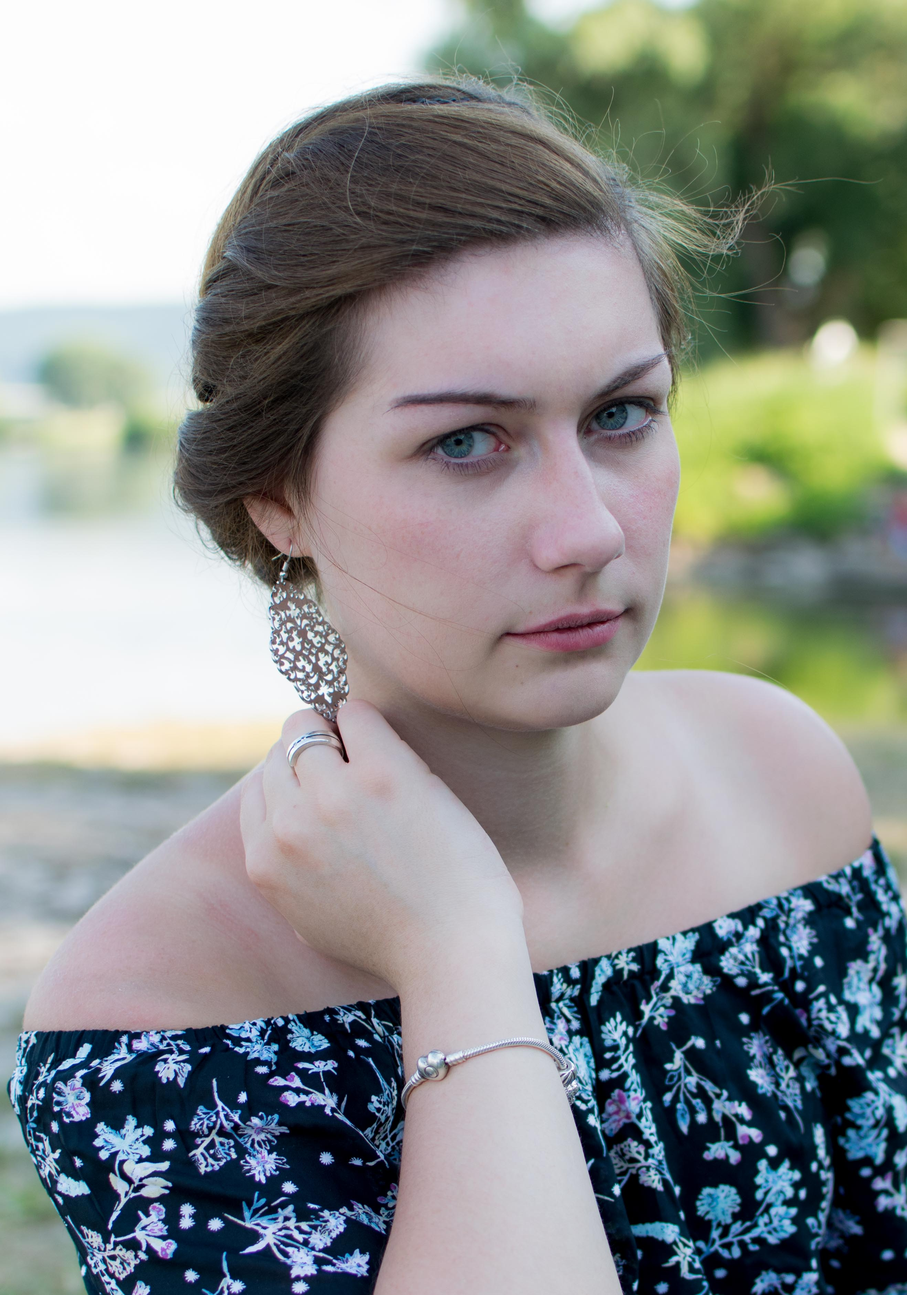
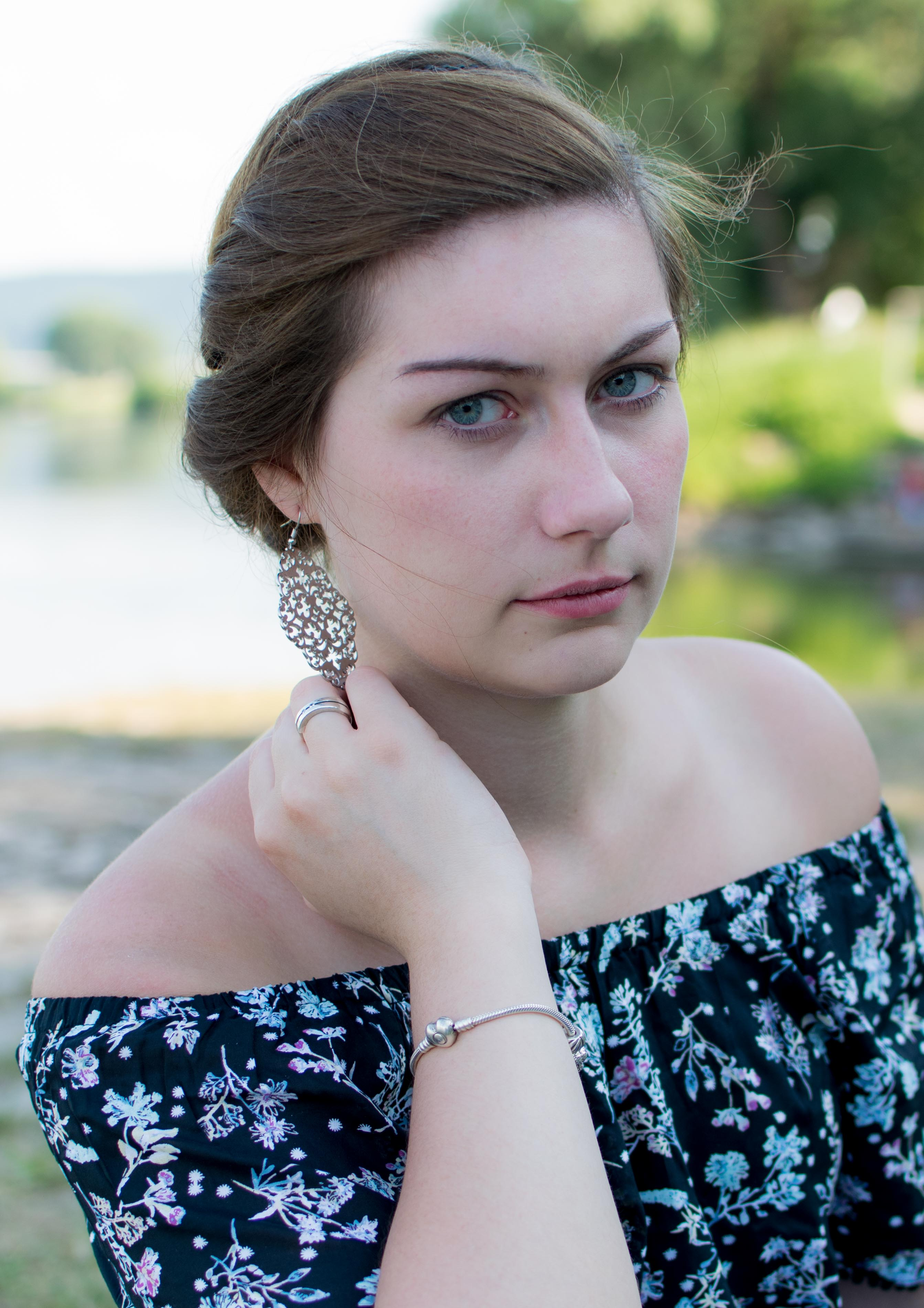
small update on hover effects and new pictures
*added new css class for hover effects on images in gallery
*added new pictures

diff --git a/index.html b/index.html
@@ -229,15 +229,7 @@
                 </a>
             </div>
 
-            <div class="gallery">
-                <h4>Animal</h4>
-                <div id="animal" class="my-gallery">
 
-                </div>
-               <!-- <a target="_blank" href="portfolio_ANIMAL.html">
-                <button class="topmargin buttonPortfolio">VIEW MORE</button>
-                </a>-->
-            </div>
 
             <div class="gallery">
                 <h4>Black&White</h4>
@@ -247,6 +239,15 @@
                <!-- <a target="_blank" href="portfolio_BW.html">
                 <button class="topmargin buttonPortfolio">VIEW MORE</button>
                 </a>-->
+            </div>
+            <div class="gallery">
+                <h4>Animal</h4>
+                <div id="animal" class="my-gallery">
+
+                </div>
+                <!-- <a target="_blank" href="portfolio_ANIMAL.html">
+                 <button class="topmargin buttonPortfolio">VIEW MORE</button>
+                 </a>-->
             </div>
         </div>
 </div>
@@ -368,8 +369,8 @@
             <div class="col-md-6 text-center">
                 <div class="service-item">
                     <div id='worflow1' class='my-gallery twentytwenty-container'>
-                        <img src='workflow/nature%20(7)%20before.jpg'>
-                        <img src='Portfolio/thumbnail/nature/nature%20(7).jpg'>
+                        <img src='workflow/portrait%20(11)%20before.jpg'>
+                        <img src='Portfolio/thumbnail/portrait/portrait%20(11).jpg'>
                     </div>
                 </div>
             </div>
@@ -521,7 +522,7 @@
 <script>
     <!--Create Gallery-->
     addImageToGallery("nature", "Portfolio/thumbnail/nature/nature%20(8).jpg", "Portfolio/nature/nature%20(8).jpg", "6000x4000", "Sunset/Flower");
-    addImageToGallery("nature", "Portfolio/thumbnail/nature/nature%20(16).jpg", "Portfolio/nature/nature%20(16).jpg", "4000x6000", "Roads");
+    addImageToGallery("nature", "Portfolio/thumbnail/nature/nature%20(41).jpg", "Portfolio/nature/nature%20(41).jpg", "4000x6000", "Location: Alte Eisenbahn, Kleinenberg; Exploring the forest.");
     addImageToGallery("nature", "Portfolio/thumbnail/nature/nature%20(36).jpg", "Portfolio/nature/nature%20(36).jpg", "6000x4000", "Railroads");
 
     addImageToGallery("general", "Portfolio/thumbnail/general/general%20(1).jpg", "Portfolio/general/general%20(1).jpg", "6000x4000", "Charcoal");
@@ -532,9 +533,9 @@
     addImageToGallery("animal", "Portfolio/thumbnail/animal/animal%20(1).jpg", "Portfolio/animal/animal%20(1).jpg", "6000x4000", "Persian Cat");
 
     addImageToGallery("bw", "Portfolio/thumbnail/bw/bw%20(1).jpg", "Portfolio/bw/bw%20(1).jpg", "1020x746", "Moon");
+    addImageToGallery("bw", "Portfolio/thumbnail/bw/bw%20(2).jpg", "Portfolio/bw/bw%20(2).jpg","6000x4000", "Moon.");
 
     addImageToGallery("portrait", "Portfolio/thumbnail/portrait/portrait%20(1).jpg", "Portfolio/portrait/portrait%20(1).jpg", "4000x4485", "Gorgeous portrait shot of Angelika. [IG: @angelikapfaffengut]");
-
     addImageToGallery("portrait", "Portfolio/thumbnail/portrait/portrait%20(11).jpg", "Portfolio/portrait/portrait%20(11).jpg", "2636x3762", "Location: Minden; Portrait Shooting.");
     //addImageToGallery("portrait", "Portfolio/thumbnail/portrait/portrait%20(3).jpg", "Portfolio/portrait/portrait%20(3).jpg", "6000x4000", "Shooting in the woods with Denise & Angelika [IG: @d93be & @angelikapfaffengut]");
     addImageToGallery("portrait", "Portfolio/thumbnail/portrait/portrait%20(4).jpg", "Portfolio/portrait/portrait%20(4).jpg", "5316x4000", "Tastes way to good!");

diff --git a/portfolio_NATURE.html b/portfolio_NATURE.html
@@ -200,6 +200,12 @@
     addImageToGallery("nature4", "Portfolio/thumbnail/nature/nature%20(39).jpg", "Portfolio/nature/nature%20(39).jpg", "6000x4000", "Location: Porta Westfalica; Exploring the forest.");
     addImageToGallery("nature", "Portfolio/thumbnail/nature/nature%20(40).jpg", "Portfolio/nature/nature%20(40).jpg", "4000x6000", "Location: Alte Eisenbahn, Kleinenberg; Filming in the fields");
     addImageToGallery("nature1", "Portfolio/thumbnail/nature/nature%20(41).jpg", "Portfolio/nature/nature%20(41).jpg", "4000x6000", "Location: Alte Eisenbahn, Kleinenberg; Exploring the forest.");
+    addImageToGallery("nature2", "Portfolio/thumbnail/nature/nature%20(42).jpg", "Portfolio/nature/nature%20(42).jpg", "6000x4000", "Location: Hegensdorf; Exploring the woods.");
+    addImageToGallery("nature2", "Portfolio/thumbnail/nature/nature%20(43).jpg", "Portfolio/nature/nature%20(43).jpg", "6000x4000", "Location: Hegensdorf; Fields.");
+    addImageToGallery("nature4", "Portfolio/thumbnail/nature/nature%20(44).jpg", "Portfolio/nature/nature%20(44).jpg", "6000x4000", "Location: Dankersen; Sunset.");
+    addImageToGallery("nature", "Portfolio/thumbnail/nature/nature%20(45).jpg", "Portfolio/nature/nature%20(45).jpg", "6000x4000", "Location: Edertalsperre; Lookout through rocks.");
+    addImageToGallery("nature3", "Portfolio/thumbnail/nature/nature%20(46).jpg", "Portfolio/nature/nature%20(46).jpg", "4000x6000", "Location: Kassel, Wilhelmshöhe; Shrooms in the woods.");
+    addImageToGallery("nature1", "Portfolio/thumbnail/nature/nature%20(47).jpg", "Portfolio/nature/nature%20(47).jpg", "6000x4000", "Location: Kassel, Wilhelmshöhe; Shrooms in the woods.");
 
     // execute function in script.js
     initPhotoSwipeFromDOM('.my-gallery');

diff --git a/portfolio_PORTRAIT.html b/portfolio_PORTRAIT.html
@@ -164,7 +164,8 @@
     addImageToGallery("portrait2", "Portfolio/thumbnail/portrait/portrait%20(9).jpg", "Portfolio/portrait/portrait%20(9).jpg", "4000x6000", "Little rebel.");
     addImageToGallery("portrait2", "Portfolio/thumbnail/portrait/portrait%20(10).jpg", "Portfolio/portrait/portrait%20(10).jpg", "3158x3290", "Location: Minden; Portrait Shooting.");
     addImageToGallery("portrait2", "Portfolio/thumbnail/portrait/portrait%20(11).jpg", "Portfolio/portrait/portrait%20(11).jpg", "2636x3762", "Location: Minden; Portrait Shooting.");
-    addImageToGallery("portrait2", "Portfolio/thumbnail/portrait/portrait%20(12).jpg", "Portfolio/portrait/portrait%20(12).jpg", "6000x4000", "Location: Minden; Portrait Shooting.");
+    addImageToGallery("portrait1", "Portfolio/thumbnail/portrait/portrait%20(12).jpg", "Portfolio/portrait/portrait%20(12).jpg", "6000x4000", "Location: Minden; Portrait Shooting.");
+    addImageToGallery("portrait2", "Portfolio/thumbnail/portrait/portrait%20(13).jpg", "Portfolio/portrait/portrait%20(13).jpg", "4000x6000", "Location: Minden; Portrait Shooting.");
 
 
     // execute function in script.js

diff --git a/portfolio_GENERAL.html b/portfolio_GENERAL.html
@@ -154,6 +154,7 @@
     addImageToGallery("general1", "Portfolio/thumbnail/general/general%20(6).jpg", "Portfolio/general/general%20(6).jpg","6000x4000", "Dinner table");
     addImageToGallery("general1", "Portfolio/thumbnail/general/general%20(7).jpg", "Portfolio/general/general%20(7).jpg","6000x4000", "Walkies with the cat.");
     addImageToGallery("general1", "Portfolio/thumbnail/general/general%20(8).jpg", "Portfolio/general/general%20(8).jpg","6000x4000", "Power pole; Long exposure at night.");
+    addImageToGallery("general", "Portfolio/thumbnail/general/general%20(9).jpg", "Portfolio/general/general%20(9).jpg","6000x4000", "Kassel, Wilhelmshöhe; Wilhelmshöhe Hercules.");
 
     // execute function in script.js
     initPhotoSwipeFromDOM('.my-gallery');

diff --git a/css/slidefolio.css b/css/slidefolio.css
@@ -422,12 +422,25 @@ footer {
 }
 
 
+.imgPortfolio:hover{
+    color: green;
+
+}
 
 .my-gallery figure { /*inside the img container*/
     margin: 0 15px 15px 15px;
     max-width: 250px;
-    box-shadow: 0 0 15px 3px gray;
-    box-shadow: 0 0 15px;
+    box-shadow: 0 0 5px 3px gray;
+    box-shadow: 0 0 5px;
+
+    transition: all .3s ease-in-out;
+}
+
+.my-gallery figure:hover { /*inside the img container*/
+    box-shadow: 0 0 20px 3px gray;
+    box-shadow: 0 0 20px;
+    transform: scale(1.05);
+    transition: all .3s ease-in-out;
 }
 
 .my-gallery figcaption {

diff --git a/portfolio_BW.html b/portfolio_BW.html
@@ -145,6 +145,7 @@
 <script>
     <!--Create Gallery-->
     addImageToGallery("bw", "Portfolio/thumbnail/bw/bw%20(1).jpg", "Portfolio/bw/bw%20(1).jpg","6000x4000", "Moon.");
+    addImageToGallery("bw", "Portfolio/thumbnail/bw/bw%20(2).jpg", "Portfolio/bw/bw%20(2).jpg","6000x4000", "Moon.");
 
     // execute function in script.js
     initPhotoSwipeFromDOM('.my-gallery');
